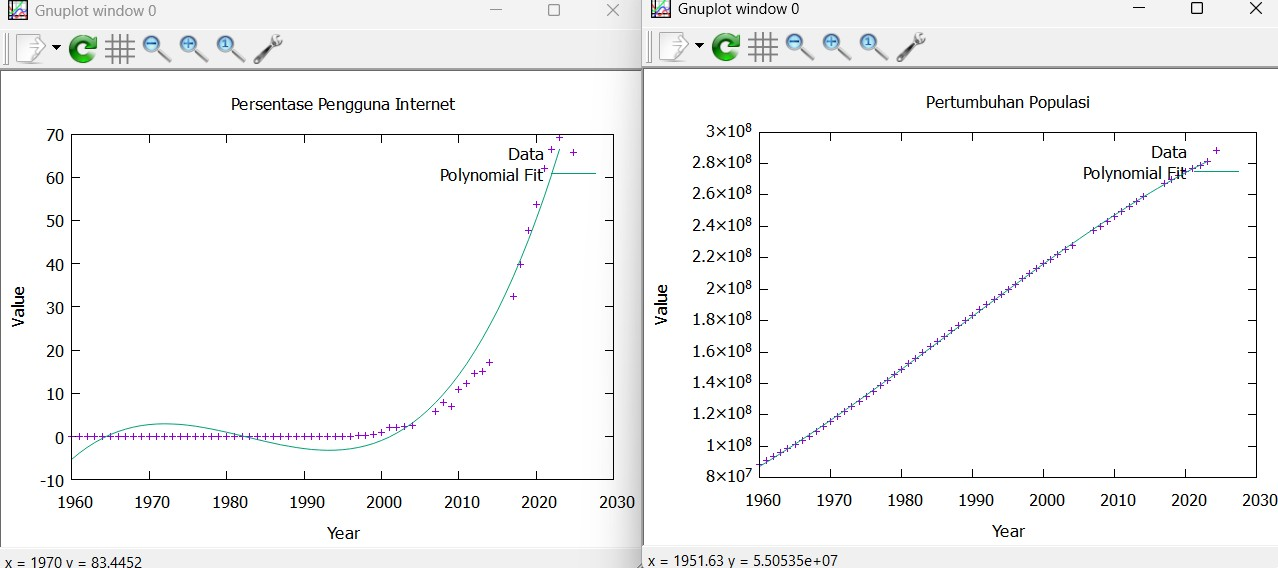
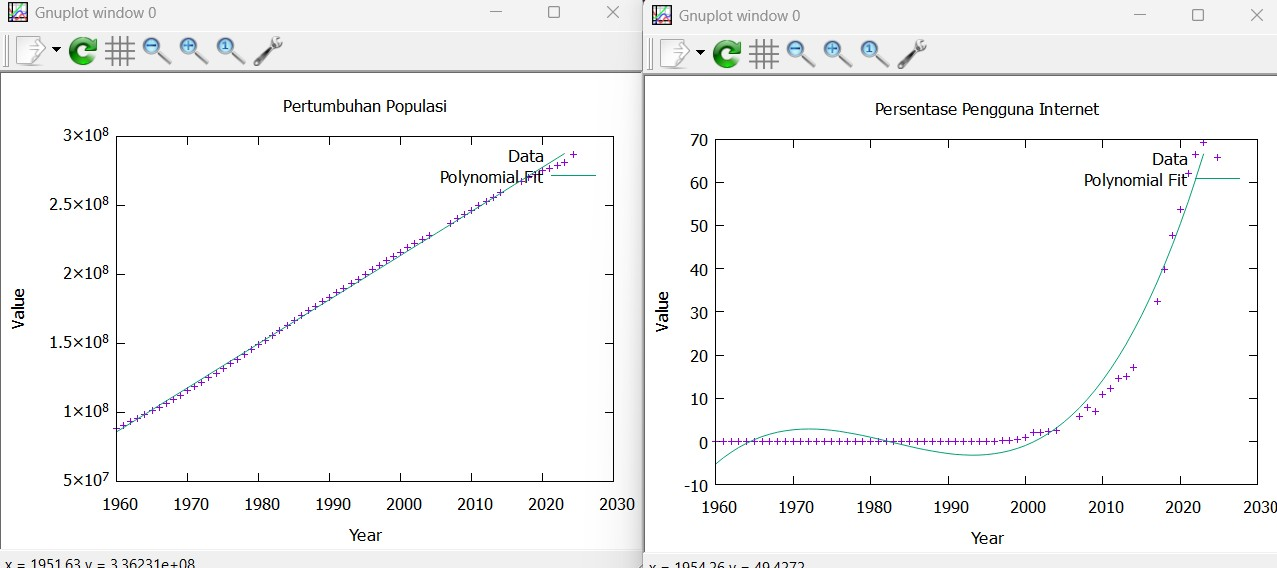
updated

diff --git a/CurveFitting.c b/CurveFitting.c
@@ -81,7 +81,7 @@ void polynomial_fit(int n, int degree, const int x[], const double y[], double c
 
 
 int main(){
-    int degree = 4;
+    int degree = 3;
     FILE *file = fopen("Data Tugas Pemrograman A.csv", "r");
 
     char buffer[1024];
@@ -140,17 +140,17 @@ int main(){
     for (j = 0; j < i; j++) {
         population_double[j] = (double)population[j];
     }
-    polynomial_fit(i, degree, year, population_double, coeffs_population);
+    polynomial_fit(i, 1, year, population_double, coeffs_population); // degree 1 karena lurus
 
     printf("Persamaan a (Persentase Pengguna Internet): y = ");
     for (int d = degree; d >= 0; d--) {
-        printf("%.6f*x^%d ", coeffs_percentage[d], d);
+        printf("%+.6f*x^%d ", coeffs_percentage[d], d);
     }
     printf("\n");
 
     printf("Persamaan b (Pertumbuhan Populasi): y = ");
-    for (int d = degree; d >= 0; d--) {
-        printf("%.6f*x^%d ", coeffs_population[d], d);
+    for (int d = 1; d >= 0; d--) {
+        printf("%+.6f*x^%d ", coeffs_population[d], d);
     }
 
     plot_data(year, percentage, i, coeffs_percentage, "Persentase Pengguna Internet", degree);
@@ -165,7 +165,13 @@ int main(){
         predicted_percentage += coeffs_percentage[d] * pow(year_to_predict, d);
         predicted_population += coeffs_population[d] * pow(year_to_predict, d);
     }
-    printf("Predicted percentage for year %d: %.6f\n", year_to_predict, predicted_percentage);
+
+    if (predicted_percentage >= 100)
+    {
+        predicted_percentage = 100;
+    }
+
+    printf("Predicted percentage internet user for year %d: %.6f\n", year_to_predict, predicted_percentage);
     printf("Predicted population for year %d: %.6f\n", year_to_predict, predicted_population);
 
     printf("\n");
